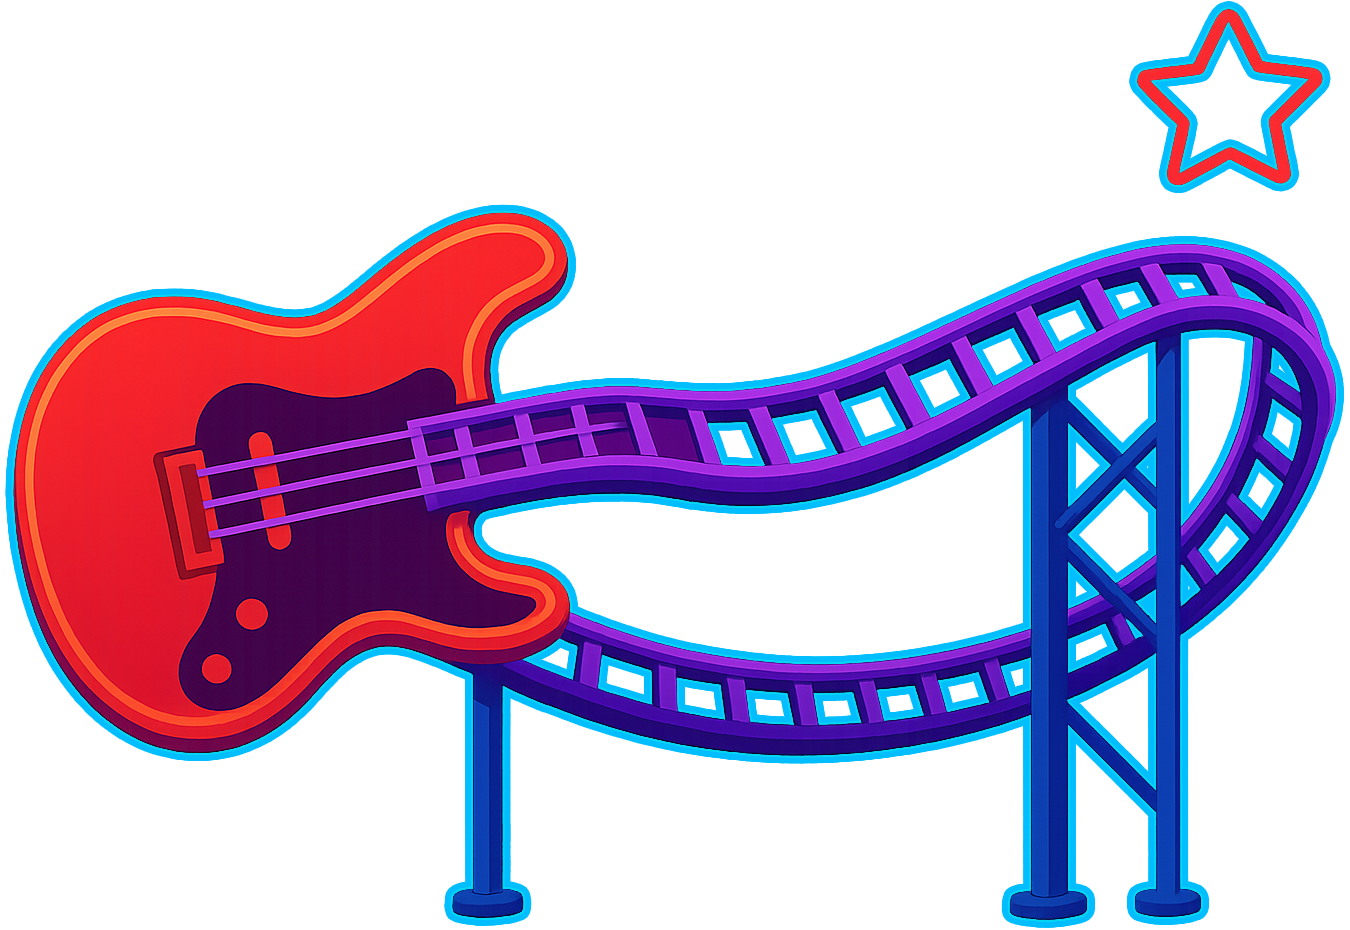
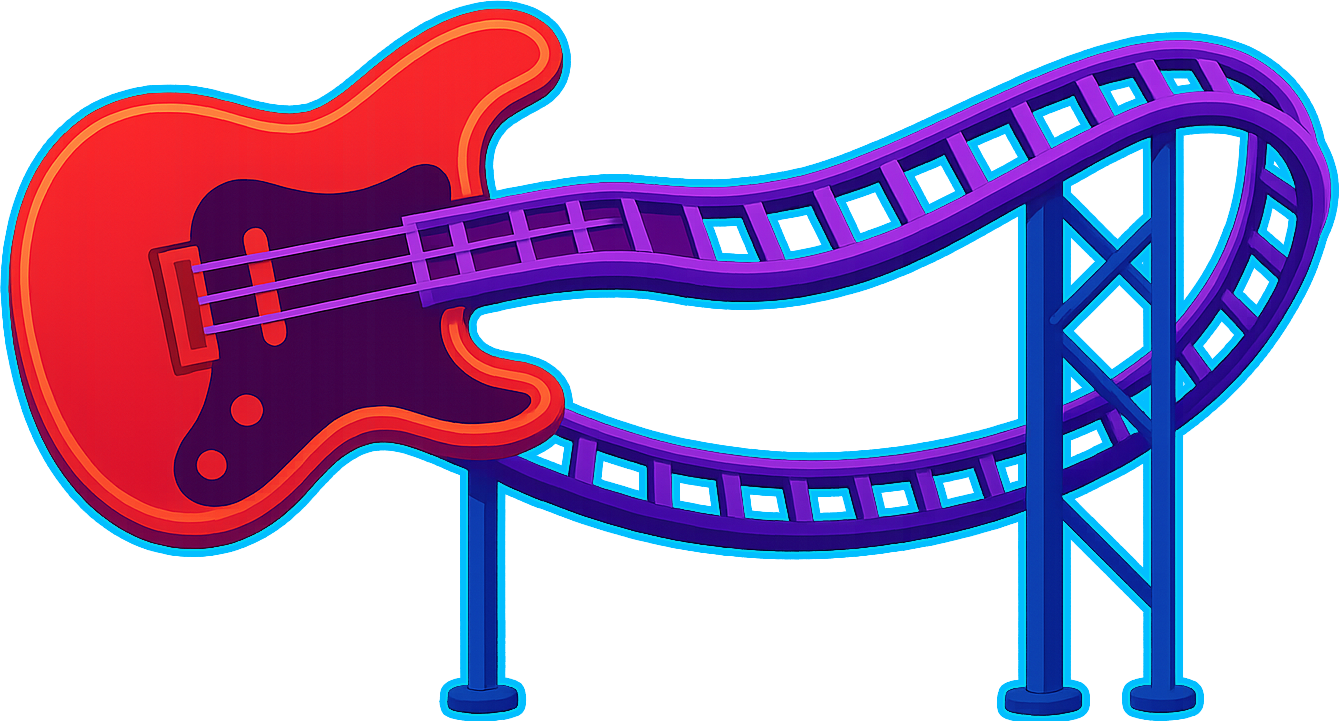
use physics-matter

diff --git a/src/terrain/decorations.js b/src/terrain/decorations.js
@@ -1,7 +1,6 @@
 import { Config } from "@config";
 import { PhysicsManager } from "@utils";
 import TerrainManager from "./terrain-manager.js";
-import TextureCollisionManager from "./texture-collision.js";
 
 class DecorationsManager {
   static createDecorations(scene, mapConfig) {
@@ -10,6 +9,60 @@ class DecorationsManager {
       if (!scene.textures.exists(decor.sprite))
         return console.warn(`Decoration texture "${decor.sprite}" not found`) || [];
 
+      // PhysicsEditor path: Create Matter sprite directly (following tutorial exactly)
+      if (decor.physicsJson) {
+        const shapes = scene.cache.json.get(decor.physicsJson);
+        if (!shapes || !shapes[decor.sprite]) {
+          console.warn(`PhysicsEditor shapes not found for "${decor.sprite}", skipping`);
+          return [];
+        }
+
+        // Create Matter sprite with physics shape - exactly as tutorial shows
+        const matterSprite = scene.matter.add.sprite(0, 0, decor.sprite, null, {
+          shape: shapes[decor.sprite],
+          isStatic: true,
+          friction: 1.0,
+          frictionStatic: 1.0,
+          collisionFilter: { category: PhysicsManager.CATEGORIES.TERRAIN },
+        });
+
+        // Calculate scale based on relativeWidth
+        let scale = 1;
+        if (decor.relativeWidth) {
+          scale = (Config.GAME_WIDTH * decor.relativeWidth) / matterSprite.width;
+        } else if (decor.scale) {
+          scale = decor.scale;
+        }
+        matterSprite.setScale(scale);
+
+        // Position using centerOfMass offset (exactly as tutorial shows)
+        // Adjust for origin - tutorial uses bottom-center positioning
+        const originX = decor.originX ?? 0.5;
+        const originY = decor.originY ?? 1;
+        const offsetX = matterSprite.displayWidth * (0.5 - originX);
+        const offsetY = matterSprite.displayHeight * (0.5 - originY);
+
+        matterSprite.setPosition(
+          decor.x + matterSprite.centerOfMass.x + offsetX,
+          yPos + matterSprite.centerOfMass.y + offsetY,
+        );
+
+        matterSprite.setDepth(decor.depth ?? -3);
+
+        // Track for platform bounds
+        scene.currentMapPlatforms.push({
+          x: matterSprite.x - matterSprite.displayWidth / 2,
+          y: matterSprite.y - matterSprite.displayHeight / 2,
+          width: matterSprite.displayWidth,
+          height: matterSprite.displayHeight,
+          name: `PhysicsEditor Terrain (${decor.sprite})`,
+        });
+
+        console.log(`🎯 Created PhysicsEditor terrain: ${decor.sprite}`);
+        return [matterSprite];
+      }
+
+      // Standard path: Create Image sprite
       const sprite = scene.add
         .image(decor.x, yPos, decor.sprite)
         .setOrigin(decor.originX ?? 0.5, decor.originY ?? 1)
@@ -38,15 +91,6 @@ class DecorationsManager {
             duration: (Math.PI * 2 * 1000) / (decor.rotationSpeed ?? 0.2),
             repeat: -1,
             onUpdate: () => scene.matter.body.setAngle(body, Phaser.Math.DegToRad(sprite.angle)),
-          });
-      } else if (decor.collisionFromTexture) {
-        TextureCollisionManager.createTerrainFromTexture(scene, sprite, decor.sprite);
-        if (decor.rotating)
-          scene.tweens.add({
-            targets: sprite,
-            angle: 360,
-            duration: (Math.PI * 2 * 1000) / (decor.rotationSpeed ?? 0.2),
-            repeat: -1,
           });
       }
 

diff --git a/src/scenes/GameScene.js b/src/scenes/GameScene.js
@@ -12,7 +12,7 @@ import {
 import { UIManager, HealthBarManager } from "@ui";
 import { MovementManager } from "@player";
 import { WeaponSpriteManager } from "@weapons";
-import { TerrainManager, TextureCollisionManager } from "@terrain";
+import { TerrainManager } from "@terrain";
 
 class GameScene extends Phaser.Scene {
   constructor() {
@@ -51,6 +51,7 @@ class GameScene extends Phaser.Scene {
     // Heavy Metal Coaster
     this.load.image("heavy-metal-coaster-bg", "src/assets/rides/heavy-metal-coaster/background.png");
     this.load.image("metal-coaster", "src/assets/rides/heavy-metal-coaster/metal-coaster.png");
+    this.load.json("metal-coaster-physics", "src/assets/rides/heavy-metal-coaster/metal-coaster.json");
     this.load.image("donut-coaster", "src/assets/rides/heavy-metal-coaster/donut.png");
     this.load.image("palm-tree-coaster", "src/assets/rides/heavy-metal-coaster/palm-tree.png");
   }
@@ -93,11 +94,6 @@ class GameScene extends Phaser.Scene {
     const weaponConfig = Config.WEAPON_CONFIGS[this.turnManager.getCurrentWeapon()];
     this.players.forEach(player => {
       PlayerManager.updatePlayerPhysics(this, player);
-      // Safety net: if any texture-based terrain has been registered (e.g. metal-coaster),
-      // nudge the player out if they end up inside the solid area.
-      if (this._textureCollision?.["metal-coaster"]) {
-        TextureCollisionManager.nudgePlayerOutOfTexture(this, player, "metal-coaster");
-      }
       PlayerManager.updateHitAreaMarker(player);
       WeaponSpriteManager.updateWeaponSprite(player, weaponConfig, player.aimAngle);
     });

diff --git a/src/utils/maps.js b/src/utils/maps.js
@@ -121,11 +121,11 @@ class MapManager {
         {
           sprite: "metal-coaster",
           x: 600,
-          y: "GAME_HEIGHT - 100", // sit flush on ground band
+          y: "GAME_HEIGHT - 100",
           originX: 0.5,
           originY: 1,
           relativeWidth: 0.5,
-          collisionFromTexture: true,
+          physicsJson: "metal-coaster-physics", // PhysicsEditor JSON for precise collision
         },
         {
           sprite: "donut-coaster",
@@ -140,12 +140,12 @@ class MapManager {
         },
         {
           sprite: "palm-tree-coaster",
-          x: 1070, // moved ~30px left from previous 1100
-          y: "GAME_HEIGHT - 100", // sit on ground band
+          x: 1070,
+          y: "GAME_HEIGHT - 100",
           originX: 0.5,
           originY: 1,
-          relativeWidth: 0.17, // ~15% smaller than 0.2
-          collisionFromTexture: true,
+          relativeWidth: 0.17,
+          // No collision - purely decorative (or add physicsJson when JSON is created)
         },
       ],
       groundVariation: false,

diff --git a/src/config.js b/src/config.js
@@ -162,9 +162,9 @@ const PhaserConfig = {
     default: "matter",
     matter: {
       gravity: {
-        y: Config.GRAVITY, // Direct use of final gravity value
+        y: Config.GRAVITY,
       },
-      debug: false, // Disable physics debug - we'll add manual debug for projectiles
+      debug: false,
       enableSleeping: false,
     },
   },

diff --git a/src/terrain/index.js b/src/terrain/index.js
@@ -1,3 +1,2 @@
 export { default as TerrainManager } from "./terrain-manager.js";
-export { default as TextureCollisionManager } from "./texture-collision.js";
 export { default as DecorationsManager } from "./decorations.js";
